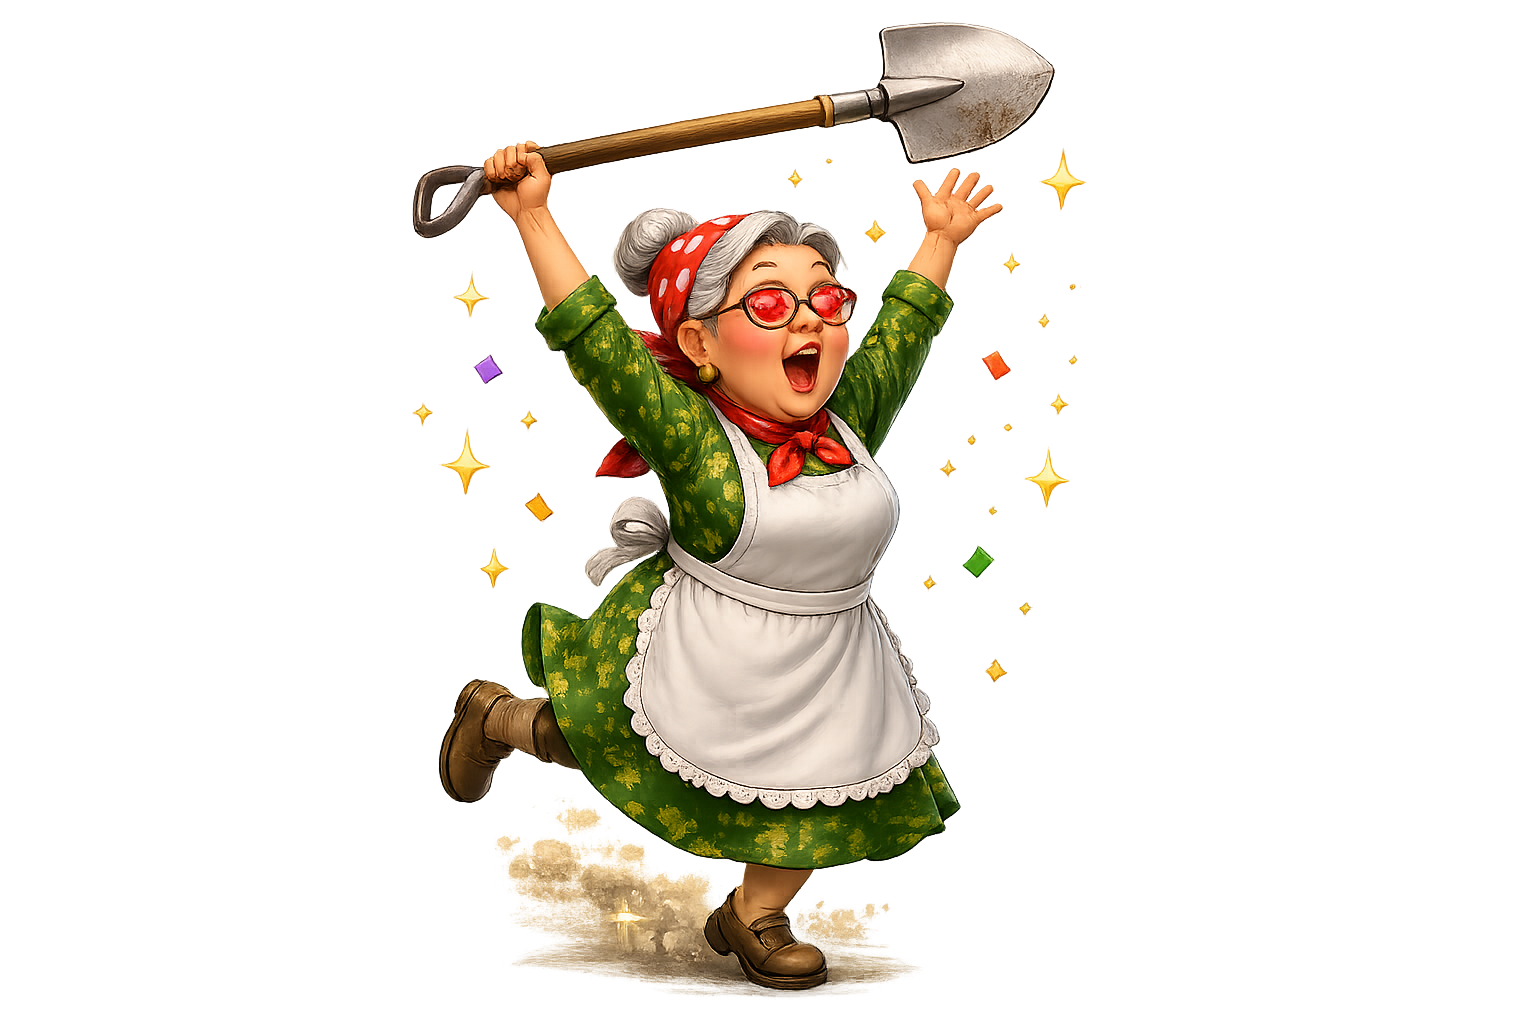
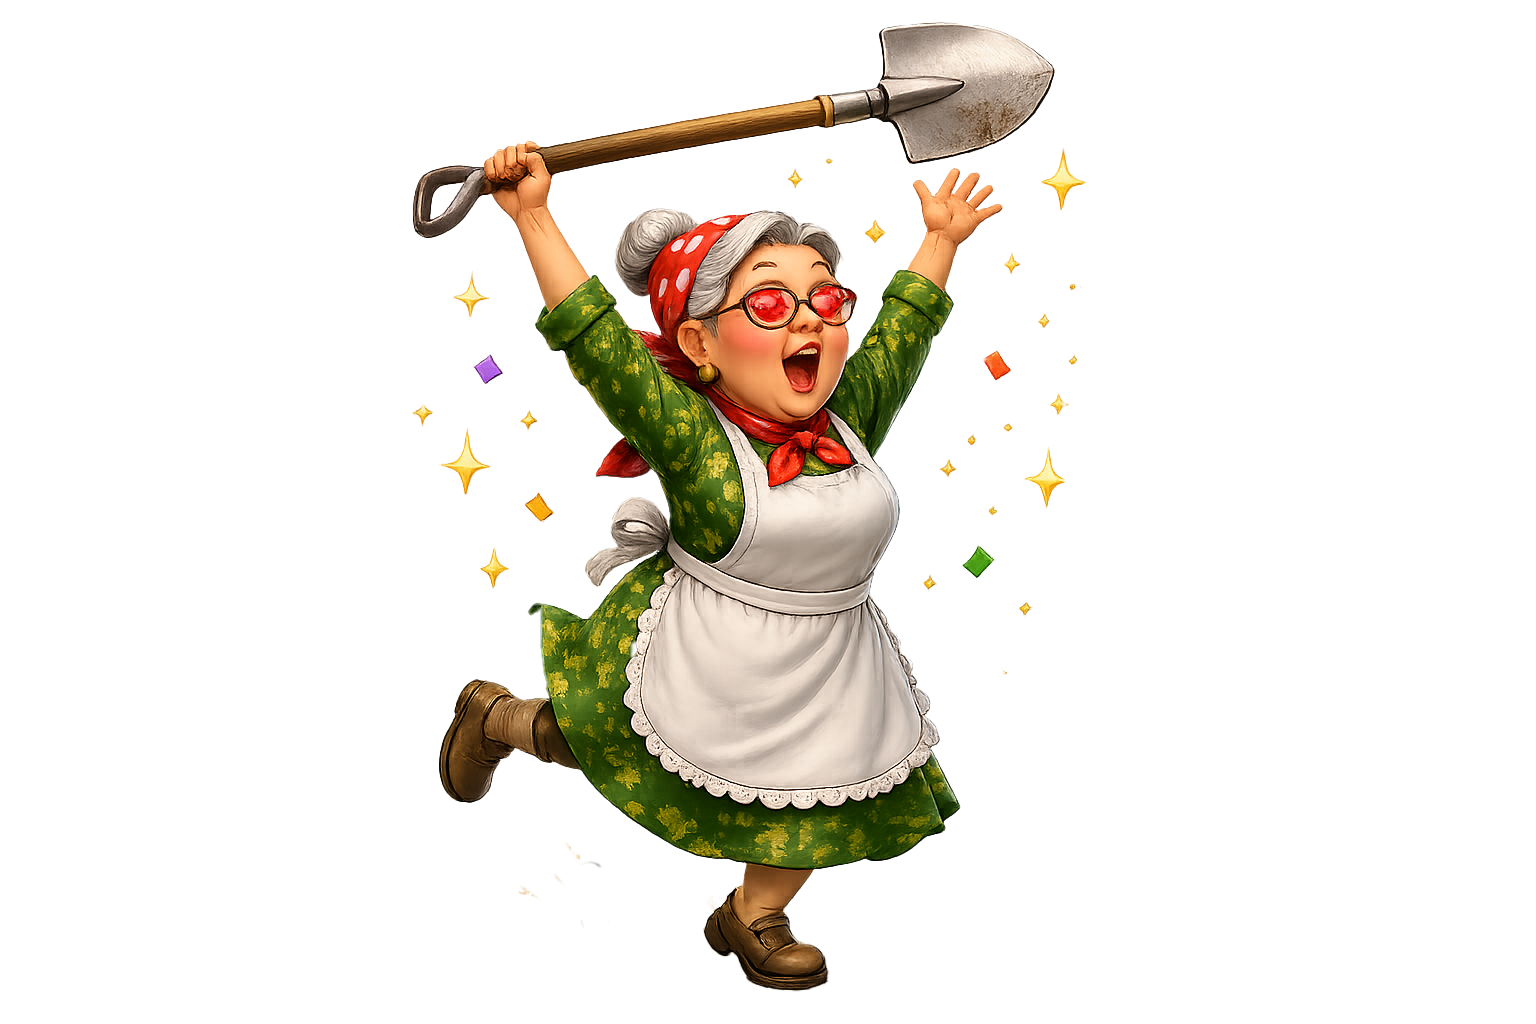
Обновил денс и в вебе расположение

Changed region(s): [[0.3125, 0.7812, 0.5312, 1.0], [0.5, 0.875, 0.5938, 0.9688], [0.3125, 0.5938, 0.375, 0.6875]]

diff --git a/style.css b/style.css
@@ -28,7 +28,7 @@ button {
 
 .app-shell {
     width: min(100vw, 430px);
-    height: min(100vh, 932px);
+    height: min(100dvh, 932px);
     margin: 0 auto;
     position: relative;
     overflow: hidden;
@@ -43,19 +43,20 @@ button {
 }
 
 .loader {
-    position: fixed;
-    left: 50%;
-    top: 50%;
-    width: min(100vw, 430px);
-    height: min(100vh, 932px);
-    transform: translate(-50%, -50%);
+    position: absolute;
+    inset: 0;
     z-index: 100;
+
+    width: 100%;
+    height: 100%;
+
     background: linear-gradient(180deg, #8fd8f7 0%, #2196f3 100%);
     display: flex;
     flex-direction: column;
     align-items: center;
     justify-content: center;
-    border-radius: 38px;
+
+    border-radius: inherit;
     overflow: hidden;
 }
 
@@ -139,22 +140,45 @@ button {
 .start-btn {
     position: absolute;
     left: 50%;
-    bottom: 110px;
+    bottom: 108px;
     transform: translateX(-50%) scale(.8);
     opacity: 0;
     pointer-events: none;
-    border: 6px solid #9a5a16;
-    border-radius: 24px;
-    background: linear-gradient(#fde047, #f97316);
-    color: white;
+
+    min-width: 210px;
+    height: 76px;
+    padding: 0 42px;
+
+    border: 5px solid #8b4513;
+    border-radius: 28px;
+    background:
+        linear-gradient(180deg, rgba(255,255,255,.55) 0%, rgba(255,255,255,0) 34%),
+        linear-gradient(180deg, #ffe66d 0%, #ff9f1c 54%, #f97316 100%);
+
+    color: #ffffff;
     font-size: 30px;
     font-weight: 900;
-    padding: 16px 52px;
-    box-shadow: 0 9px 0 #7c2d12;
-    text-shadow: 3px 3px 0 #00000066;
+    letter-spacing: .5px;
+
+    box-shadow:
+        inset 0 3px 0 rgba(255,255,255,.65),
+        inset 0 -5px 0 rgba(154,69,16,.35),
+        0 8px 0 #6f320e,
+        0 18px 28px rgba(0,0,0,.28);
+
+    text-shadow:
+        0 2px 0 rgba(124,45,18,.95),
+        0 4px 8px rgba(0,0,0,.35);
+
     cursor: pointer;
-    transition: .35s;
+    transition: transform .25s ease, filter .25s ease, opacity .35s ease;
     z-index: 6;
+}
+
+.start-btn:active,
+.prizes-btn:active {
+    transform: translateX(-50%) scale(.96);
+    filter: brightness(.95);
 }
 
 .game {
@@ -360,25 +384,45 @@ button {
     right: 18px;
     bottom: 20px;
     z-index: 75;
-    width: 96px;
-    height: 86px;
-    border: 5px solid #9a5a16;
-    border-radius: 24px;
-    background: linear-gradient(#fde047, #f97316);
+
+    width: 104px;
+    height: 92px;
+
+    border: 5px solid #8b4513;
+    border-radius: 28px;
+
+    background:
+        linear-gradient(180deg, rgba(255,255,255,.55) 0%, rgba(255,255,255,0) 34%),
+        linear-gradient(180deg, #ffe66d 0%, #ff9f1c 54%, #f97316 100%);
+
     color: white;
-    font-size: 30px;
+    font-size: 32px;
     font-weight: 900;
-    box-shadow: 0 8px 0 #7c2d12;
-    text-shadow: 2px 2px 0 #00000066;
+
+    box-shadow:
+        inset 0 3px 0 rgba(255,255,255,.65),
+        inset 0 -5px 0 rgba(154,69,16,.35),
+        0 8px 0 #6f320e,
+        0 18px 28px rgba(0,0,0,.28);
+
+    text-shadow:
+        0 2px 0 rgba(124,45,18,.95),
+        0 4px 8px rgba(0,0,0,.35);
+
     cursor: pointer;
     display: flex;
     flex-direction: column;
     align-items: center;
     justify-content: center;
+
+    transition: transform .25s ease, filter .25s ease;
 }
 
 .prizes-btn span {
-    font-size: 17px;
+    margin-top: 2px;
+    font-size: 18px;
+    font-weight: 900;
+    letter-spacing: .2px;
 }
 
 .effects {
@@ -597,17 +641,12 @@ button {
 @media (max-width: 600px) {
     body { background: #000; }
 
-    .app-shell {
-        width: 100vw;
-        height: 100dvh;
-        border-radius: 0;
-        box-shadow: none;
-    }
-
+    .app-shell,
     .loader {
         width: 100vw;
         height: 100dvh;
         border-radius: 0;
+        box-shadow: none;
     }
 }
 
@@ -645,8 +684,8 @@ button {
     }
 
     .prizes-btn {
-        width: 88px;
-        height: 80px;
-        font-size: 28px;
-    }
+    width: 96px;
+    height: 84px;
+    font-size: 30px;
+}
 }

diff --git a/index.html b/index.html
@@ -8,28 +8,27 @@
 </head>
 <body>
 
-    <!-- Экран загрузки -->
-    <div id="loader" class="loader">
-        <div class="loader-sky">
-
-            <div id="pawTrack" class="paw-track"></div>
-
-            <img
-                id="loaderLogo"
-                class="loader-logo"
-                src="assets/loader-logo.png"
-                alt="Суета на 6 сотках">
-
-            <div class="loader-text">Загрузка...</div>
-
-            <button id="startBtn" class="start-btn" type="button">
-                Играть
-            </button>
-
-        </div>
-    </div>
-
     <div class="app-shell">
+
+        <div id="loader" class="loader">
+            <div class="loader-sky">
+
+                <div id="pawTrack" class="paw-track"></div>
+
+                <img
+                    id="loaderLogo"
+                    class="loader-logo"
+                    src="assets/loader-logo.png"
+                    alt="Суета на 6 сотках">
+
+                <div class="loader-text">Загрузка...</div>
+
+                <button id="startBtn" class="start-btn" type="button">
+                    Играть
+                </button>
+
+            </div>
+        </div>
 
         <main id="game" class="screen game hidden">
 

diff --git a/script.js b/script.js
@@ -56,8 +56,16 @@ const bgMusic = new Audio("assets/fonsound.mp3");
 bgMusic.loop = true;
 bgMusic.volume = 0.5;
 
-const hitSound = new Audio("assets/kia.mp3");
-hitSound.volume = 1.0;
+const hitSounds = [
+    new Audio("assets/kia.mp3"),
+    new Audio("assets/kia_tch.mp3")
+];
+
+hitSounds.forEach((sound) => {
+    sound.volume = 1.0;
+});
+
+let hitSoundIndex = 0;
 
 const hitSoundSpecial = new Audio("assets/kia2.mp3");
 hitSoundSpecial.volume = 1.0;
@@ -250,8 +258,12 @@ function playHitSound(grannyPhrase) {
         return;
     }
 
-    hitSound.currentTime = 0;
-    hitSound.play();
+    const sound = hitSounds[hitSoundIndex];
+
+    sound.currentTime = 0;
+    sound.play();
+
+    hitSoundIndex = (hitSoundIndex + 1) % hitSounds.length;
 }
 
 function playLevelUpSound() {